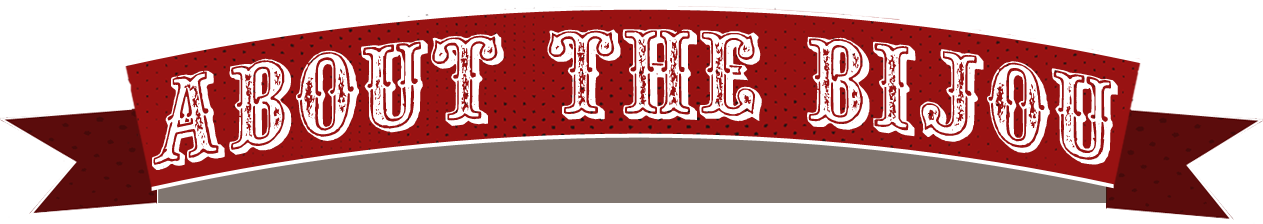
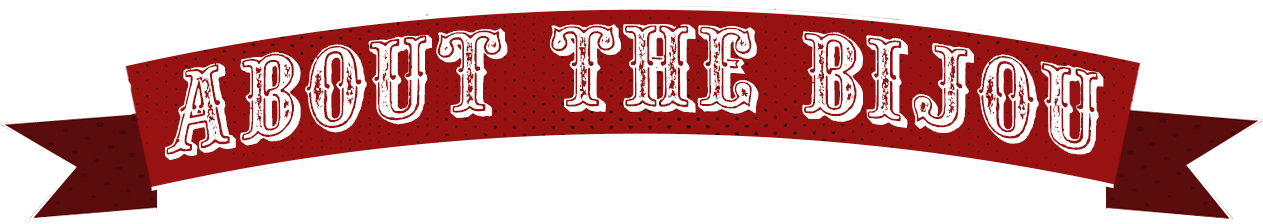
page-specific header images for "Now Showing", "Coming Soon", and "About the Bijou"

diff --git a/wp-content/themes/bijou/style.css b/wp-content/themes/bijou/style.css
@@ -17,6 +17,8 @@ p {font-family:'Century Gothic', Arial, Helvetica, sans-serif; font-size:14px; f
 div#wrapper {width:100%; margin:auto;   }
 .menu { background-color:transparent; margin:auto; }
 div#header h1 {background:url(images/now_showing.png) no-repeat; display:block;height:241px; background-position:50% 50%;  text-indent:-9999px; margin:0px auto 0px auto; margin-bottom: 15px; }
+div#headercomingsoon h1 {background:url(images/coming_soon.png) no-repeat; display:block;height:241px; background-position:50% 50%;  text-indent:-9999px; margin:0px auto 0px auto; margin-bottom: 15px; }
+div#headerabout h1 {background:url(images/about.png) no-repeat; display:block;height:241px; background-position:50% 50%;  text-indent:-9999px; margin:0px auto 0px auto; margin-bottom: 15px; }
 div#content {width:947px; margin:auto; /*margin-top:-29px;*/ display:block; height:auto;  background: rgba(43, 26, 17, 0.6) none repeat scroll 0 0; box-shadow: 0px 0px 60px rgba(0,0,0,.4); border-radius: 15px; border-bottom: 3px solid rgba(23,6,7,1);border-left: 1px solid rgba(23,6,7,1); border-top: 1px solid rgba(63, 46, 37, 1); padding: 20px; }
 #content.home{
 	margin-top: -29px;

diff --git a/wp-content/themes/bijou/header.php b/wp-content/themes/bijou/header.php
@@ -64,4 +64,16 @@
 
 	</div>
     	
-	
+<?
+	if ( is_page('about') ) {
+		echo '<div id="headerabout"><h1>Bijou Cinema About</h1></div>';
+	}
+	if ( is_category('coming-soon') ) {
+		
+		echo '<div id="headercomingsoon"><h1>Bijou Cinema Coming Soon</h1></div>';
+	}
+	if ( is_home() ) {
+		
+		echo '<div id="header"><h1>Bijou Cinema Now Showing</h1></div>';
+	}
+?>	

diff --git a/wp-content/themes/bijou/index.php b/wp-content/themes/bijou/index.php
@@ -16,8 +16,6 @@
 get_header();
 
  ?>
-
-<div id="header"><h1>Bijou Cinema Now Showing</h1></div>
 <div id="content" class="home">   
 
 <div id="leftcolumn">
